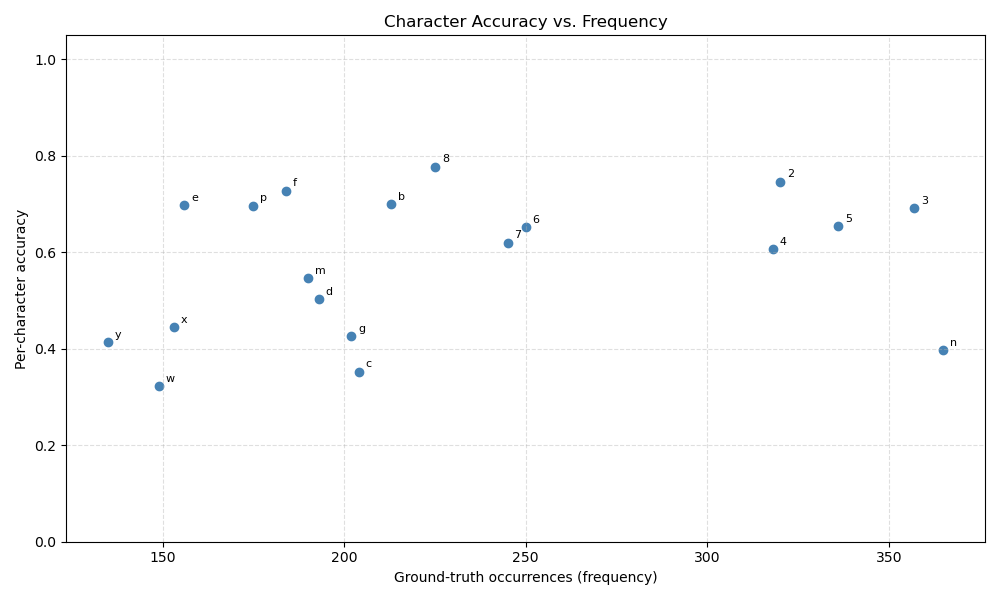
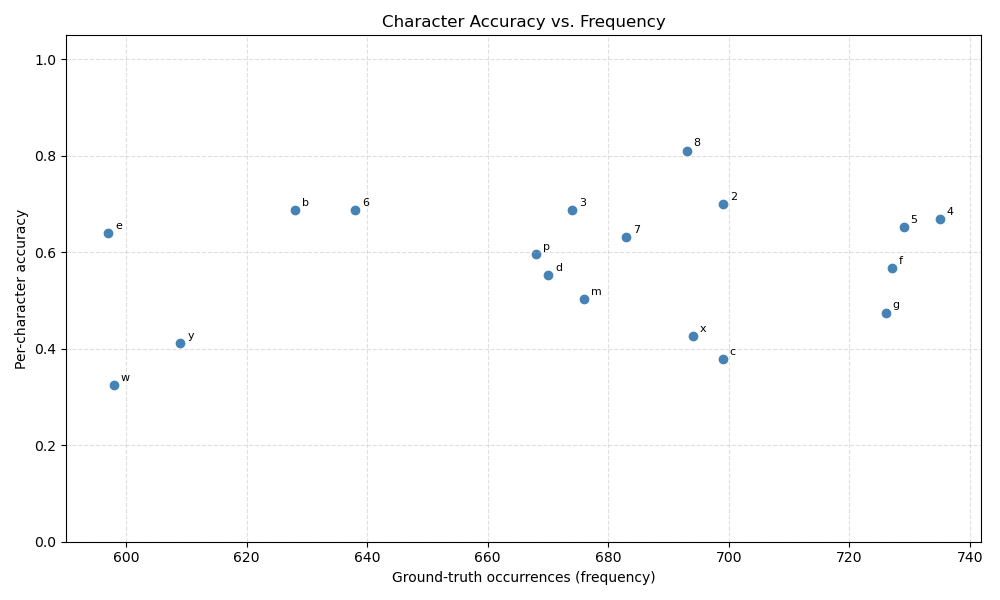
Final updates to data and general structure

diff --git a/data_processing/model_comparison.py b/data_processing/model_comparison.py
@@ -22,29 +22,29 @@ def comparison_mcnemar(model_4: pd.DataFrame, model_27: pd.DataFrame):
 
     return result.statistic, result.pvalue
 
-def comparison_edit_distance(model_4: pd.DataFrame, model_27: pd.DataFrame):
+def comparison_edit_distance(data_1: pd.DataFrame, data_2: pd.DataFrame):
     """
     Calculate the average edit distance between the response text and the image text for two models.
     Returns a tuple of average edit distances for both models.
     """
     # -- 1. Levenshtein distance for each row -----------------------------------
-    d4 = [distance(gt, pred) for gt, pred in
-          zip(model_4["image"].astype(str), model_4["response_text"].astype(str))]
-    d27 = [distance(gt, pred) for gt, pred in
-           zip(model_27["image"].astype(str), model_27["response_text"].astype(str))]
+    d1 = [distance(gt, pred) for gt, pred in
+          zip(data_1["image"].astype(str), data_1["response_text"].astype(str))]
+    d2 = [distance(gt, pred) for gt, pred in
+           zip(data_2["image"].astype(str), data_2["response_text"].astype(str))]
 
-    d4 = np.array(d4, dtype=int)
-    d27 = np.array(d27, dtype=int)
+    d1 = np.array(d1, dtype=int)
+    d2 = np.array(d2, dtype=int)
 
     # -- 2. Summary stats --------------------------------------------------------
-    mean4, mean27 = d4.mean(), d27.mean()
-    delta = mean27 - mean4
+    mean1, mean2 = d1.mean(), d2.mean()
+    delta = mean2 - mean1
 
     # -- 3. Paired Wilcoxon test -------------------------------------------------
-    stat, p = wilcoxon(d27, d4)
+    stat, p = wilcoxon(d2, d1)
 
     # -- 4. Output ---------------------------------------------------------------
-    return mean4, mean27, delta, stat, p
+    return mean1, mean2, delta, stat, p
 
 def generate_wilson(model: pd.DataFrame):
     """
@@ -64,33 +64,60 @@ def generate_wilson(model: pd.DataFrame):
 
     return lower_bound, upper_bound
 
-def generate(model_4: pd.DataFrame, model_27: pd.DataFrame):
+def generate(data_1: pd.DataFrame, data_2: pd.DataFrame):
     """ Generate a comparison statistics for different models based on their accuracy."""
     # -- 1. Calculate Wilson score intervals for both models --------------------
-    mcnemar_result = comparison_mcnemar(model_4, model_27)
+    mcnemar_result = comparison_mcnemar(data_1, data_2)
     print(f"McNemar's test statistic: {mcnemar_result[0]}, p-value: {mcnemar_result[1]}")
 
     # -- 2. Calculate Wilson score intervals for both models --------------------
-    edit_distance_result = comparison_edit_distance(model_4, model_27)
+    edit_distance_result = comparison_edit_distance(data_1, data_2)
     print(f"Edit-distance comparison (lower = better)")
-    print(f"  Model-4B  mean = {edit_distance_result[0]:.2f}")
-    print(f"  Model-27B mean = {edit_distance_result[1]:.2f}")
-    print(f"  Δ (27B − 4B)   = {edit_distance_result[2]:+.2f}")
+    print(f"  Data-1  mean = {edit_distance_result[0]:.2f}")
+    print(f"  Data-2  mean = {edit_distance_result[1]:.2f}")
+    print(f"  Δ (D1 − D2)   = {edit_distance_result[2]:+.2f}")
     print(f"  Wilcoxon  W = {edit_distance_result[3]:.0f},  p = {edit_distance_result[4]:.4g}")
 
     # -- 3. Calculate Wilson score intervals for both models --------------------
-    wilson_4 = generate_wilson(model_4)
-    wilson_27 = generate_wilson(model_27)
+    wilson_4 = generate_wilson(data_1)
+    wilson_27 = generate_wilson(data_2)
     print(f"Wilson score intervals:")
-    print(f"  Model-4B  = [{wilson_4[0]:.4f}, {wilson_4[1]:.4f}]")
-    print(f"  Model-27B = [{wilson_27[0]:.4f}, {wilson_27[1]:.4f}]")
+    print(f"  Data-1  = [{wilson_4[0]:.4f}, {wilson_4[1]:.4f}]")
+    print(f"  Data-2  = [{wilson_27[0]:.4f}, {wilson_27[1]:.4f}]")
 
+    captcha_completions_1 = data_1["response_text"].eq(data_1["image"]).sum()
+    captcha_completions_2 = data_2["response_text"].eq(data_2["image"]).sum()
+    print(f"Captcha completions:")
+    print(f"  Data-1  completions = {captcha_completions_1}")
+    print(f"  Data-2  completions = {captcha_completions_2}")
+
+    captcha_completion_ratio_1 = (captcha_completions_1 / len(data_1))
+    captcha_completion_ratio_2 = (captcha_completions_2 / len(data_2))
+    print(f"Captcha completion ratio:")
+    print(f"  Data-1  completion ratio = {captcha_completion_ratio_1:.4f}")
+    print(f"  Data-2  completion ratio = {captcha_completion_ratio_2:.4f}")
+
+def generate_prompts():
+    data1 = get_data_raw(model_27, prompt=1, depth=1)
+    data2 = get_data_raw(model_27, prompt=2, depth=1)
+    data3 = get_data_raw(model_27, prompt=3, depth=1)
+    print(f"Lengths of datasets: Data-1 = {len(data1)}, Data-2 = {len(data2)}, Data-3 = {len(data3)}")
+    print("=" * 50)
+    print("Generating comparison statistics for parameter 1 and 2")
+    generate(data1, data2)
+    print("=" * 50)
+    print("Generating comparison statistics for parameter 2 and 3")
+    generate(data2, data3)
+    print("=" * 50)
+    print("Generating comparison statistics for parameter 1 and 3")
+    generate(data1, data3)
+    print("=" * 50)
 
 if __name__ == '__main__':
-    model_4_data = get_data_raw(model_4, depth=1)
-    model_27_data = get_data_raw(model_27, depth=1)
-    print(f"Lengths of datasets: Model-4B = {len(model_4_data)}, Model-27B = {len(model_27_data)}")
-    generate(get_data(model_4, depth=1), get_data(model_27, depth=1))
+    data_1 = get_data(model_4, depth=1)
+    data_2 = get_data(model_27, depth=1)
+    print(f"Lengths of datasets: Data-1 = {len(data_1)}, Data-2 = {len(data_2)}")
+    generate(data_1, data_2)
 
 
 

diff --git a/data_processing/edit_distance_histogram.py b/data_processing/edit_distance_histogram.py
@@ -2,7 +2,7 @@ import matplotlib.pyplot as plt
 
 from data_loader import *
 
-def generate(data: pd.DataFrame):
+def generate(data: pd.DataFrame, model: str, prompt: int = -1):
     """
     Generate a plot showing the edit distance between the response text and the image text.
     """
@@ -25,10 +25,24 @@ def generate(data: pd.DataFrame):
     plt.ylabel("Number of CAPTCHAs")
     plt.title("Distribution of Edit Distances (Model vs Ground Truth)")
     plt.xticks(range(15))
-    plt.savefig(f"../plots/edit_distance_histogram_{model}.png")
+    prompt_str = f"_{prompt}" if prompt != -1 else ""
+    plt.savefig(f"../plots/edit_distance_histogram_{model}{prompt_str}.png")
     plt.show()
 
-if __name__ == '__main__':
-    model = model_27  # Change this to the desired model
+def generate_parameters(model: str):
+    data1 = get_data(model, prompt=1, depth=1)
+    data2 = get_data(model, prompt=2, depth=1)
+    data3 = get_data(model, prompt=3, depth=1)
+    print(f"Generating edit distance histogram for {model} with prompt 1")
+    generate(data1, model, 1)
+    print(f"Generating edit distance histogram for {model} with prompt 2")
+    generate(data2, model, 2)
+    print(f"Generating edit distance histogram for {model} with prompt 3")
+    generate(data3, model, 3)
+
+def generate_all(model: str):
     print(f"Generating edit distance histogram for {model}")
-    generate(get_data(model, depth=1))
+    generate(get_data(model, depth=1), model)
+
+if __name__ == '__main__':
+    generate_parameters(model_27)

diff --git a/data_processing/character_accuracy_plot.py b/data_processing/character_accuracy_plot.py
@@ -1,12 +1,14 @@
 from data_loader import *
 
-def generate(data: pd.DataFrame):
+def generate(data: pd.DataFrame, with_n: bool = False):
     """
     Generate a plot showing the per-character accuracy of CAPTCHA responses.
     This accounts for character frequency in the ground truth.
     """
     # -------------- 1. Setup containers -----------------
     chars = get_chars(1)
+    if not with_n:
+        chars.remove("n")
     char_hits = {c: 0 for c in chars}  # correct predictions
     char_total = {c: 0 for c in chars}  # ground-truth appearances
 
@@ -57,10 +59,11 @@ def generate(data: pd.DataFrame):
     plt.ylim(0, 1.05)
     plt.grid(alpha=0.4, linestyle="--")
     plt.tight_layout()
-    plt.savefig(f"../plots/character_accuracy_plot_{model}.png")
+    with_n_suffix = "_with_n" if with_n else ""
+    plt.savefig(f"../plots/character_accuracy_plot_{model}{with_n_suffix}.png")
     plt.show()
 
 if __name__ == '__main__':
-    model = model_4  # Change this to the desired model
+    model = model_27  # Change this to the desired model
     print(f"Generating character accuracy plot for {model}")
-    generate(get_cleaned_data(model, depth=1))
+    generate(get_cleaned_data(model, depth=1), True)

diff --git a/data_loader.py b/data_loader.py
@@ -1,5 +1,4 @@
 import string
-from collections import Counter
 
 import matplotlib.pyplot as plt
 import numpy as np
@@ -21,6 +20,9 @@ def get_data(model: str, prompt: int = -1, depth: int = 0) -> pd.DataFrame:
         for p in range(1, 4):
             with open(f"{path_fixer}prompt_{p}_results/results_{get_model_type(model)}.txt", "r") as f:
                 for line in f:
+                    if len(line.strip().split(";")) != 3:
+                        print(f"Skipping malformed line: {line.strip()}")
+                        continue
                     image, response_text, accuracy = line.strip().split(";")
                     data.loc[len(data)] = [image, response_text, float(accuracy)]
     else: # Load data for a specific prompt

diff --git a/api_receiver.py b/api_receiver.py
@@ -8,7 +8,7 @@ import sys
 # Parameters: 4, 27 billion
 # Type: Instruction Tuned
 
-client = genai.Client(api_key="AIzaSyBxQbP2ukABclpD07OYAmHzBcNSIBfuGzc")
+client = genai.Client(api_key="AIzaSyBxQbP2ukABclpD07OYAmHzBcNSIBfuGzc") # The API key has been disabled for safety reasons.
 model_4 = "gemma-3-4b-it"
 model_27 = "gemma-3-27b-it"
 models = [model_4, model_27]
